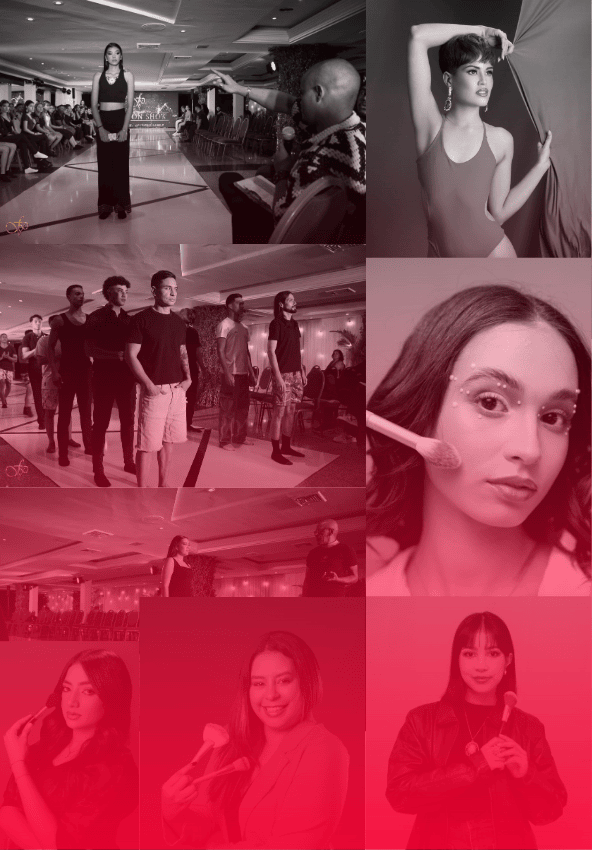
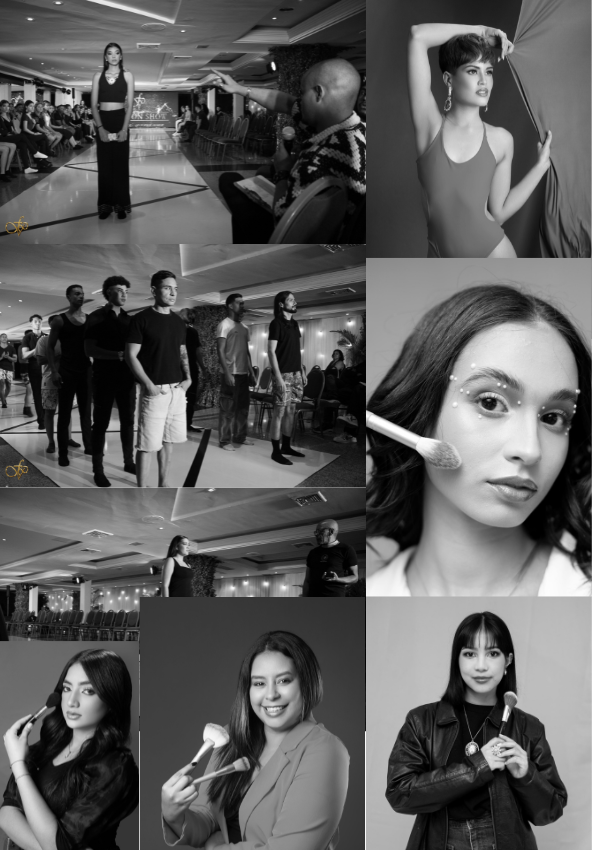
Correcion de imagenes, responsive y tema claro oscuro

diff --git a/src/app/page.tsx b/src/app/page.tsx
@@ -54,10 +54,9 @@ export default function Home() {
   ];
 
   return (
-    <div className="flex flex-col min-h-screen items-center justify-center font-sans">
-      {/* Barra de Navegación */}
+    <div className="flex flex-col min-h-screen items-center justify-center font-sans bg-white dark:bg-black">
       <header className="fixed top-0 z-50 w-full bg-black border-b backdrop-blur-md">
-        <div className="relative max-w-7xl mx-auto px-6 h-20 flex items-center justify-between">
+        <div className="relative w-full px-6 h-20 flex items-center justify-between">
           {/* Logo */}
           <Link href="/" className="hover:opacity-80 transition-opacity">
             <Image
@@ -84,22 +83,23 @@ export default function Home() {
         {/* Sección 1 - Maquillaje */}
         <div
           className="bg-[url(/images/pictures/lp_maquillaje_1.png)] bg-cover bg-center bg-no-repeat
-          w-full h-svh flex flex-col justify-center items-center gap-10"
+          w-full h-svh flex flex-col justify-center items-center gap-10 relative"
         >
+          <div className="absolute top-0 left-0 w-full h-full bg-linear-to-t from-white/80 to-black/10 dark:from-black/80 dark:to-white/10 "></div>
           {/* Red social */}
-          <p className="text-xl text-black/90 dark:text-white/90">
+          <p className="text-xl text-black/90 dark:text-white/90 z-10">
             @FOTOPOSEVMAKEUP
           </p>
 
           {/* Titulo de la sección */}
-          <h1 className="text-4xl lg:text-5xl font-bold text-center text-black dark:text-white">
+          <h1 className="text-3xl lg:text-5xl font-bold text-center text-black dark:text-white z-10">
             Cursos de maquillaje profesional
           </h1>
 
           {/* botones de enrrutado */}
-          <div className="flex flex-col md:flex-row justify-center items-center gap-5">
+          <div className="flex flex-col md:flex-row justify-center items-center gap-5 z-10">
             <button
-              className="min-w-40 rounded-xl p-2 bg-black text-shadow-white hover:bg-white hover:text-black
+              className="min-w-40 rounded-xl p-2 bg-black text-white text-shadow-white hover:bg-white hover:text-black
              dark:bg-white dark:text-black dark:hover:bg-black dark:hover:text-white"
             >
               Inscribirse
@@ -116,20 +116,24 @@ export default function Home() {
         {/* Sección 2 - Modelaje */}
         <div
           className="bg-[url(/images/pictures/lp_modelaje_1.png)] bg-cover bg-center bg-no-repeat
-          w-full h-svh flex flex-col justify-center items-center gap-10"
+          w-full h-svh flex flex-col justify-center items-center gap-10 relative"
         >
+          <div className="absolute top-0 left-0 w-full h-full bg-linear-to-t from-white/80 to-black/10 dark:from-black/80 dark:to-white/10 "></div>
+
           {/* Titulo de la sección */}
-          <h1 className="text-4xl lg:text-5xl font-bold text-center text-black dark:text-white">
+          <h1 className="text-3xl lg:text-5xl font-bold text-center text-black dark:text-white z-10">
             Curso de Modelaje Profesional
           </h1>
 
           {/* Red social */}
-          <p className="text-xl text-black/90 dark:text-white/90">@FOTOPOSEV</p>
+          <p className="text-xl text-black/90 dark:text-white/90 z-10">
+            @FOTOPOSEV
+          </p>
 
           {/* botones de enrrutado */}
-          <div className="flex flex-col md:flex-row justify-center items-center gap-5">
+          <div className="flex flex-col md:flex-row justify-center items-center gap-5 z-10">
             <button
-              className="min-w-40 rounded-xl p-2 bg-black text-shadow-white hover:bg-white hover:text-black
+              className="min-w-40 rounded-xl p-2 bg-black text-white text-shadow-white hover:bg-white hover:text-black
              dark:bg-white dark:text-black dark:hover:bg-black dark:hover:text-white"
             >
               Postularse
@@ -146,29 +150,31 @@ export default function Home() {
         {/* Sección 3 - Servicios */}
         <div
           className="bg-[url(/images/pictures/lp_servicios_1.png)] bg-cover bg-center bg-no-repeat
-          w-full h-svh flex flex-col justify-center items-center gap-10"
+          w-full h-svh flex flex-col justify-center items-center gap-10 relative"
         >
+          <div className="absolute top-0 left-0 w-full h-full bg-linear-to-t from-white/80 to-black/10 dark:from-black/80 dark:to-white/10 "></div>
+
           {/* Titulo de la sección */}
-          <h1 className="text-4xl lg:text-5xl font-bold text-center text-black dark:text-white">
+          <h1 className="text-3xl lg:text-5xl font-bold text-center text-black dark:text-white z-10">
             Contrata nuestros servicios
           </h1>
 
           {/* botones de enrrutado */}
-          <div className="flex flex-col md:flex-row justify-center items-center gap-5">
+          <div className="flex flex-col md:flex-row justify-center items-center gap-5 z-10">
             <button
-              className="min-w-40 rounded-xl p-2 bg-black text-shadow-white hover:bg-white hover:text-black
+              className="min-w-40 rounded-xl p-2 bg-black text-white text-shadow-white hover:bg-white hover:text-black
              dark:bg-white dark:text-black dark:hover:bg-black dark:hover:text-white"
             >
               Belleza
             </button>
             <button
-              className="min-w-40 rounded-xl p-2 bg-black text-shadow-white hover:bg-white hover:text-black
+              className="min-w-40 rounded-xl p-2 bg-black text-white text-shadow-white hover:bg-white hover:text-black
              dark:bg-white dark:text-black dark:hover:bg-black dark:hover:text-white"
             >
               Modelos
             </button>
             <button
-              className="min-w-40 rounded-xl p-2 bg-black text-shadow-white hover:bg-white hover:text-black
+              className="min-w-40 rounded-xl p-2 bg-black text-white text-shadow-white hover:bg-white hover:text-black
              dark:bg-white dark:text-black dark:hover:bg-black dark:hover:text-white"
             >
               Fotografia
@@ -184,12 +190,13 @@ export default function Home() {
               className="bg-[url(/images/pictures/lp_marketing_1.png)] bg-cover bg-center bg-no-repeat
               relative flex flex-col gap-2 p-10 w-full aspect-square rounded-xl shadow-2xl"
             >
-              <div className="absolute top-0 left-0 w-full h-full bg-linear-to-t from-black/80 to-white/10"></div>
+              <div className="rounded-2xl absolute top-0 left-0 w-full h-full bg-linear-to-b from-white/60 to-black/10 dark:from-black/80 dark:to-white/10 "></div>
 
-              <p className="text-xl font-bold z-10">
+              <p className="text-2xl lg:text-4xl font-bold z-10">
                 Curso de Marketing Personalizado
               </p>
-              <p className="text-lg text-black/90 dark:text-white/90 z-10">
+
+              <p className="text-xl text-black/90 dark:text-white/90 z-10">
                 Aprende Justo lo que necesitas praa tus objetivos
               </p>
             </div>
@@ -199,63 +206,72 @@ export default function Home() {
               className="bg-[url(/images/pictures/lp_cejas_1.png)] bg-cover bg-center bg-no-repeat
               relative flex flex-col gap-2 p-10 w-full aspect-square rounded-xl shadow-2xl"
             >
-              <div className="absolute top-0 left-0 w-full h-full bg-linear-to-t from-black/80 to-white/10"></div>
-              <p className="text-xl font-bold z-10">
+              <div className="rounded-2xl absolute top-0 left-0 w-full h-full bg-linear-to-b from-white/60 to-black/10 dark:from-black/80 dark:to-white/10 "></div>
+
+              <p className="text-2xl lg:text-4xl font-bold z-10">
                 Cursos de Cejas y pestañas
               </p>
-              <p className="text-lg text-black/90 dark:text-white/90 z-10">
+
+              <p className="text-xl text-black/90 dark:text-white/90 z-10">
                 Call out a feature, benefit, or value that can stand on its own.
               </p>
             </div>
           </div>
 
           <div className="flex flex-col gap-5 lg:gap-10 lg:w-1/2">
-            {/* Curso de Marketing */}
+            {/* Curso de Modelaje personalizado */}
             <div
               className="bg-[url(/images/pictures/lp_modelaje_2.png)] bg-cover bg-center bg-no-repeat
               relative flex flex-col gap-2 p-10 w-full lg:h-full aspect-square lg:aspect-auto rounded-xl shadow-2xl"
             >
-              <div className="absolute top-0 left-0 w-full h-full bg-linear-to-t from-black/80 to-white/10"></div>
-              <p className="text-xl font-bold z-10">
-                Curso de Marketing Personalizado
+              <div className="rounded-2xl absolute top-0 left-0 w-full h-full bg-linear-to-b from-white/60 to-black/10 dark:from-black/80 dark:to-white/10 "></div>
+
+              <p className="text-2xl lg:text-4xl font-bold z-10">
+                CURSOS PERSONALIZADOS DE FOTO POSE
               </p>
-              <p className="text-lg text-black/90 dark:text-white/90 z-10">
-                Aprende Justo lo que necesitas praa tus objetivos
+
+              <p className="text-xl text-black/90 dark:text-white/90 z-10">
+                HERRAMIENTAS PARA CUALQUIER PROFESION U OFICIO
               </p>
             </div>
           </div>
         </div>
 
         {/* Sección 5 - Nosotros */}
-        <div className="flex flex-col w-full p-5 gap-5 lg:p-10 lg:gap-10">
+        <div className="flex flex-col w-full p-5 gap-5 lg:p-10 lg:gap-10 rounded-2xl">
           <div
             className="bg-[url(/images/pictures/lp_nosotros_1.png)] bg-cover bg-center bg-no-repeat
-            relative flex flex-col gap-2 p-10 w-full aspect-square lg:aspect-video rounded-xl shadow-2xl"
+            relative flex flex-col justify-end gap-2 p-10 w-full lg:h-96 aspect-square lg:aspect-auto rounded-2xl shadow-2xl"
           >
-            <div className="absolute top-0 left-0 w-full h-full bg-linear-to-t from-black/80 to-white/10"></div>
-            <p className="text-xl font-bold z-10">
+            <div className="rounded-2xl absolute top-0 left-0 w-full h-full bg-linear-to-t from-white/80 to-black/10 dark:from-black/80 dark:to-white/10 "></div>
+
+            <p className="text-2xl lg:text-4xl font-bold z-10">
               Curso de Marketing Personalizado
             </p>
-            <p className="text-lg text-black/90 dark:text-white/90 z-10">
+
+            <p className="text-xl text-black/90 dark:text-white/90 z-10">
               Aprende Justo lo que necesitas praa tus objetivos
             </p>
           </div>
+
           <div
             className="bg-[url(/images/pictures/lp_nosotros_2.png)] bg-cover bg-center bg-no-repeat
-            relative flex flex-col gap-2 p-10 w-full aspect-square lg:aspect-video rounded-xl shadow-2xl"
+            relative flex flex-col justify-end gap-2 p-10 w-full lg:h-96 aspect-square lg:aspect-auto rounded-2xl shadow-2xl"
           >
-            <div className="absolute top-0 left-0 w-full h-full bg-linear-to-t from-black/80 to-white/10"></div>
-            <p className="text-xl font-bold z-10">
+            <div className="rounded-2xl absolute top-0 left-0 w-full h-full bg-linear-to-t from-white/80 to-black/10 dark:from-black/80 dark:to-white/10 "></div>
+
+            <p className="text-2xl lg:text-4xl font-bold z-10">
               Curso de Marketing Personalizado
             </p>
-            <p className="text-lg text-black/90 dark:text-white/90 z-10">
+
+            <p className="text-xl text-black/90 dark:text-white/90 z-10">
               Aprende Justo lo que necesitas praa tus objetivos
             </p>
           </div>
         </div>
       </main>
 
-      <footer className="w-full px-10 pb-30 flex justify-between">
+      <footer className="w-full px-10 pb-30 flex flex-col md:flex-row justify-between">
         {/* Contacto */}
         <div className="flex flex-col gap-5">
           <h1 className="text-2xl">Fotopose</h1>
@@ -315,7 +331,7 @@ export default function Home() {
         </div>
 
         {/* Navegacion */}
-        <div className="flex justify-end gap-5 px-20">
+        <div className="flex justify-end gap-5 md:px-20">
           {/* Cursos */}
           <ul className="flex flex-col gap-3">
             <li>

diff --git a/src/shared/MobileMenu.tsx b/src/shared/MobileMenu.tsx
@@ -21,12 +21,12 @@ export default function MobileMenu({ sections }: { sections: MenuSection[] }) {
       </button>
       {/* Overlay y Menú */}
       <div
-        className={`fixed inset-0 z-100 bg-white dark:bg-black transform transition-transform duration-300 ease-in-out ${isOpen ? "translate-x-0" : "translate-x-full"}`}
+        className={`fixed inset-0 z-100 bg-black transform transition-transform duration-300 ease-in-out ${isOpen ? "translate-x-0" : "translate-x-full"}`}
       >
         <div className="flex flex-col h-full p-6">
           {/* Header del Menú */}
           <div className="flex justify-between items-center mb-10">
-            <span className="font-bold text-xl">Menú</span>
+            <span className="text-white font-bold text-xl">Menú</span>
             <button onClick={() => setIsOpen(false)} className="p-2">
               <X size={28} color="#fff" />
             </button>
@@ -38,7 +38,7 @@ export default function MobileMenu({ sections }: { sections: MenuSection[] }) {
               <div key={index} className="border-b border-gray-100 pb-4">
                 <button
                   onClick={() => toggleSection(section.title)}
-                  className="flex justify-between items-center w-full text-lg font-semibold capitalize"
+                  className="flex justify-between items-center w-full text-white text-lg font-semibold capitalize"
                 >
                   {section.title}
                   <ChevronDown

diff --git a/src/shared/DesktopMenu.tsx b/src/shared/DesktopMenu.tsx
@@ -26,12 +26,12 @@ function NavItem({ title, items }: { title: string; items: MenuItem[] }) {
 
       {/* Contenedor Desplegable */}
       <div
-        className="absolute top-20 left-0 w-full bg-white border-b border-gray-200 
-                      opacity-0 invisible translate-y-2.5 
+        className="absolute top-20 left-0 bg-white border-b border-gray-200 
+                      opacity-0 invisible translate-y-2.5
                       group-hover:opacity-100 group-hover:visible group-hover:translate-y-0 
                       transition-all duration-300 ease-out shadow-xl"
       >
-        <div className="max-w-7xl mx-auto px-10 py-8 grid grid-cols-3 gap-4">
+        <div className="mx-auto px-10 py-8 grid grid-cols-3 gap-4">
           {items.map((item) => (
             <Link
               key={item.slug}
